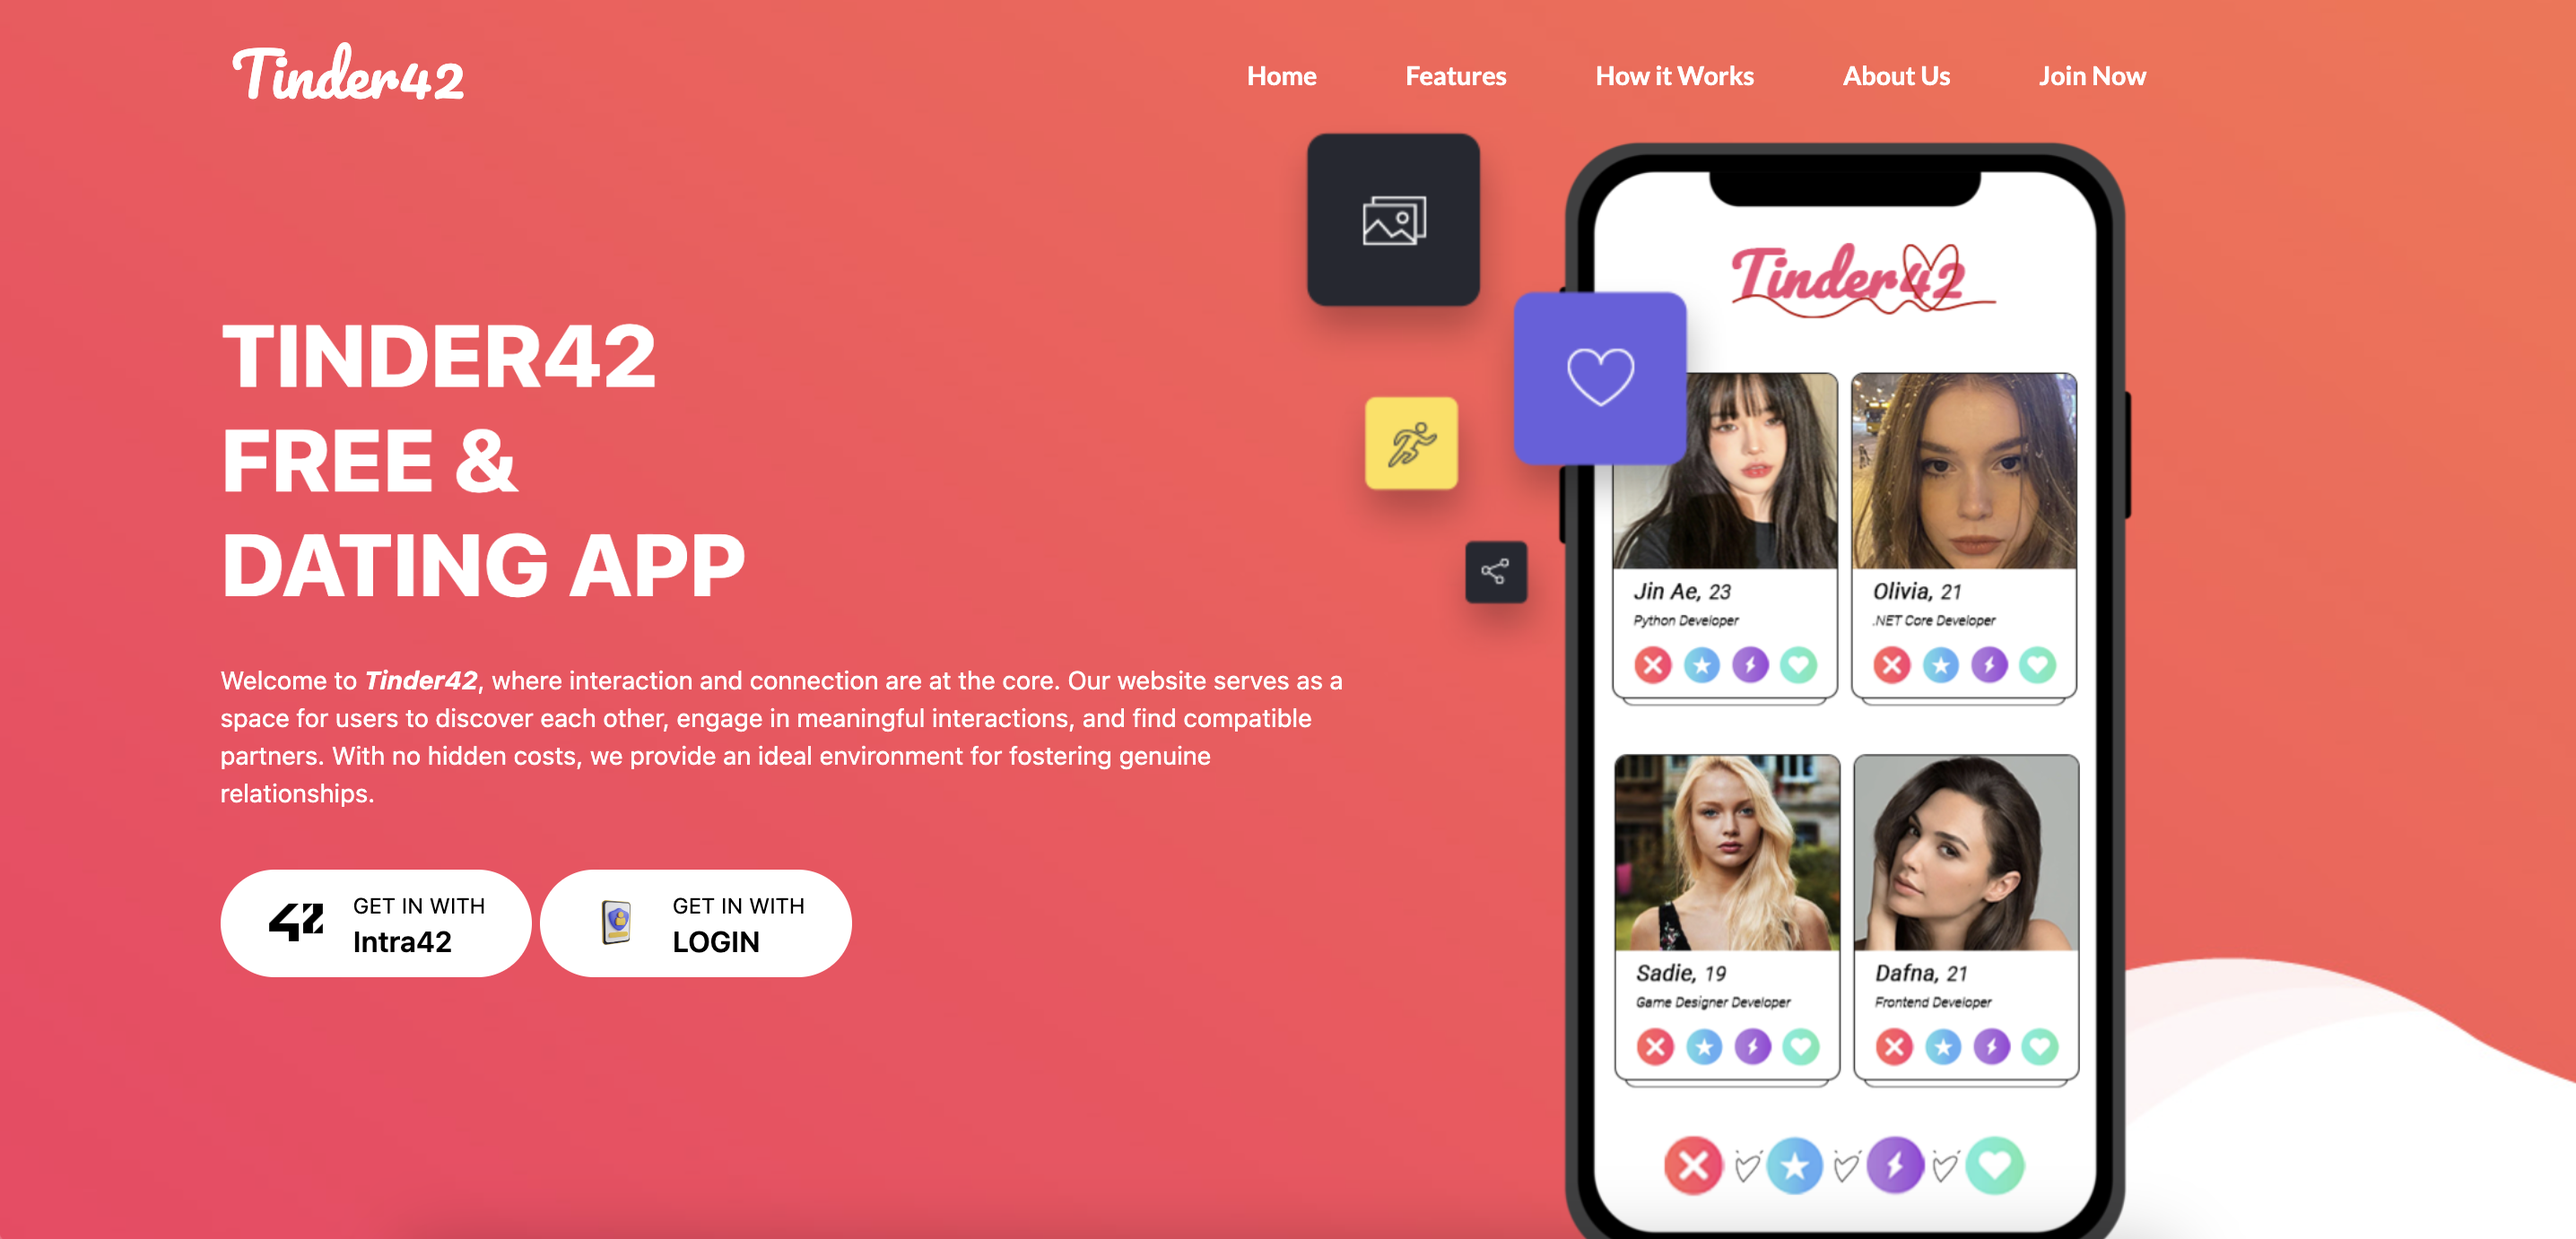
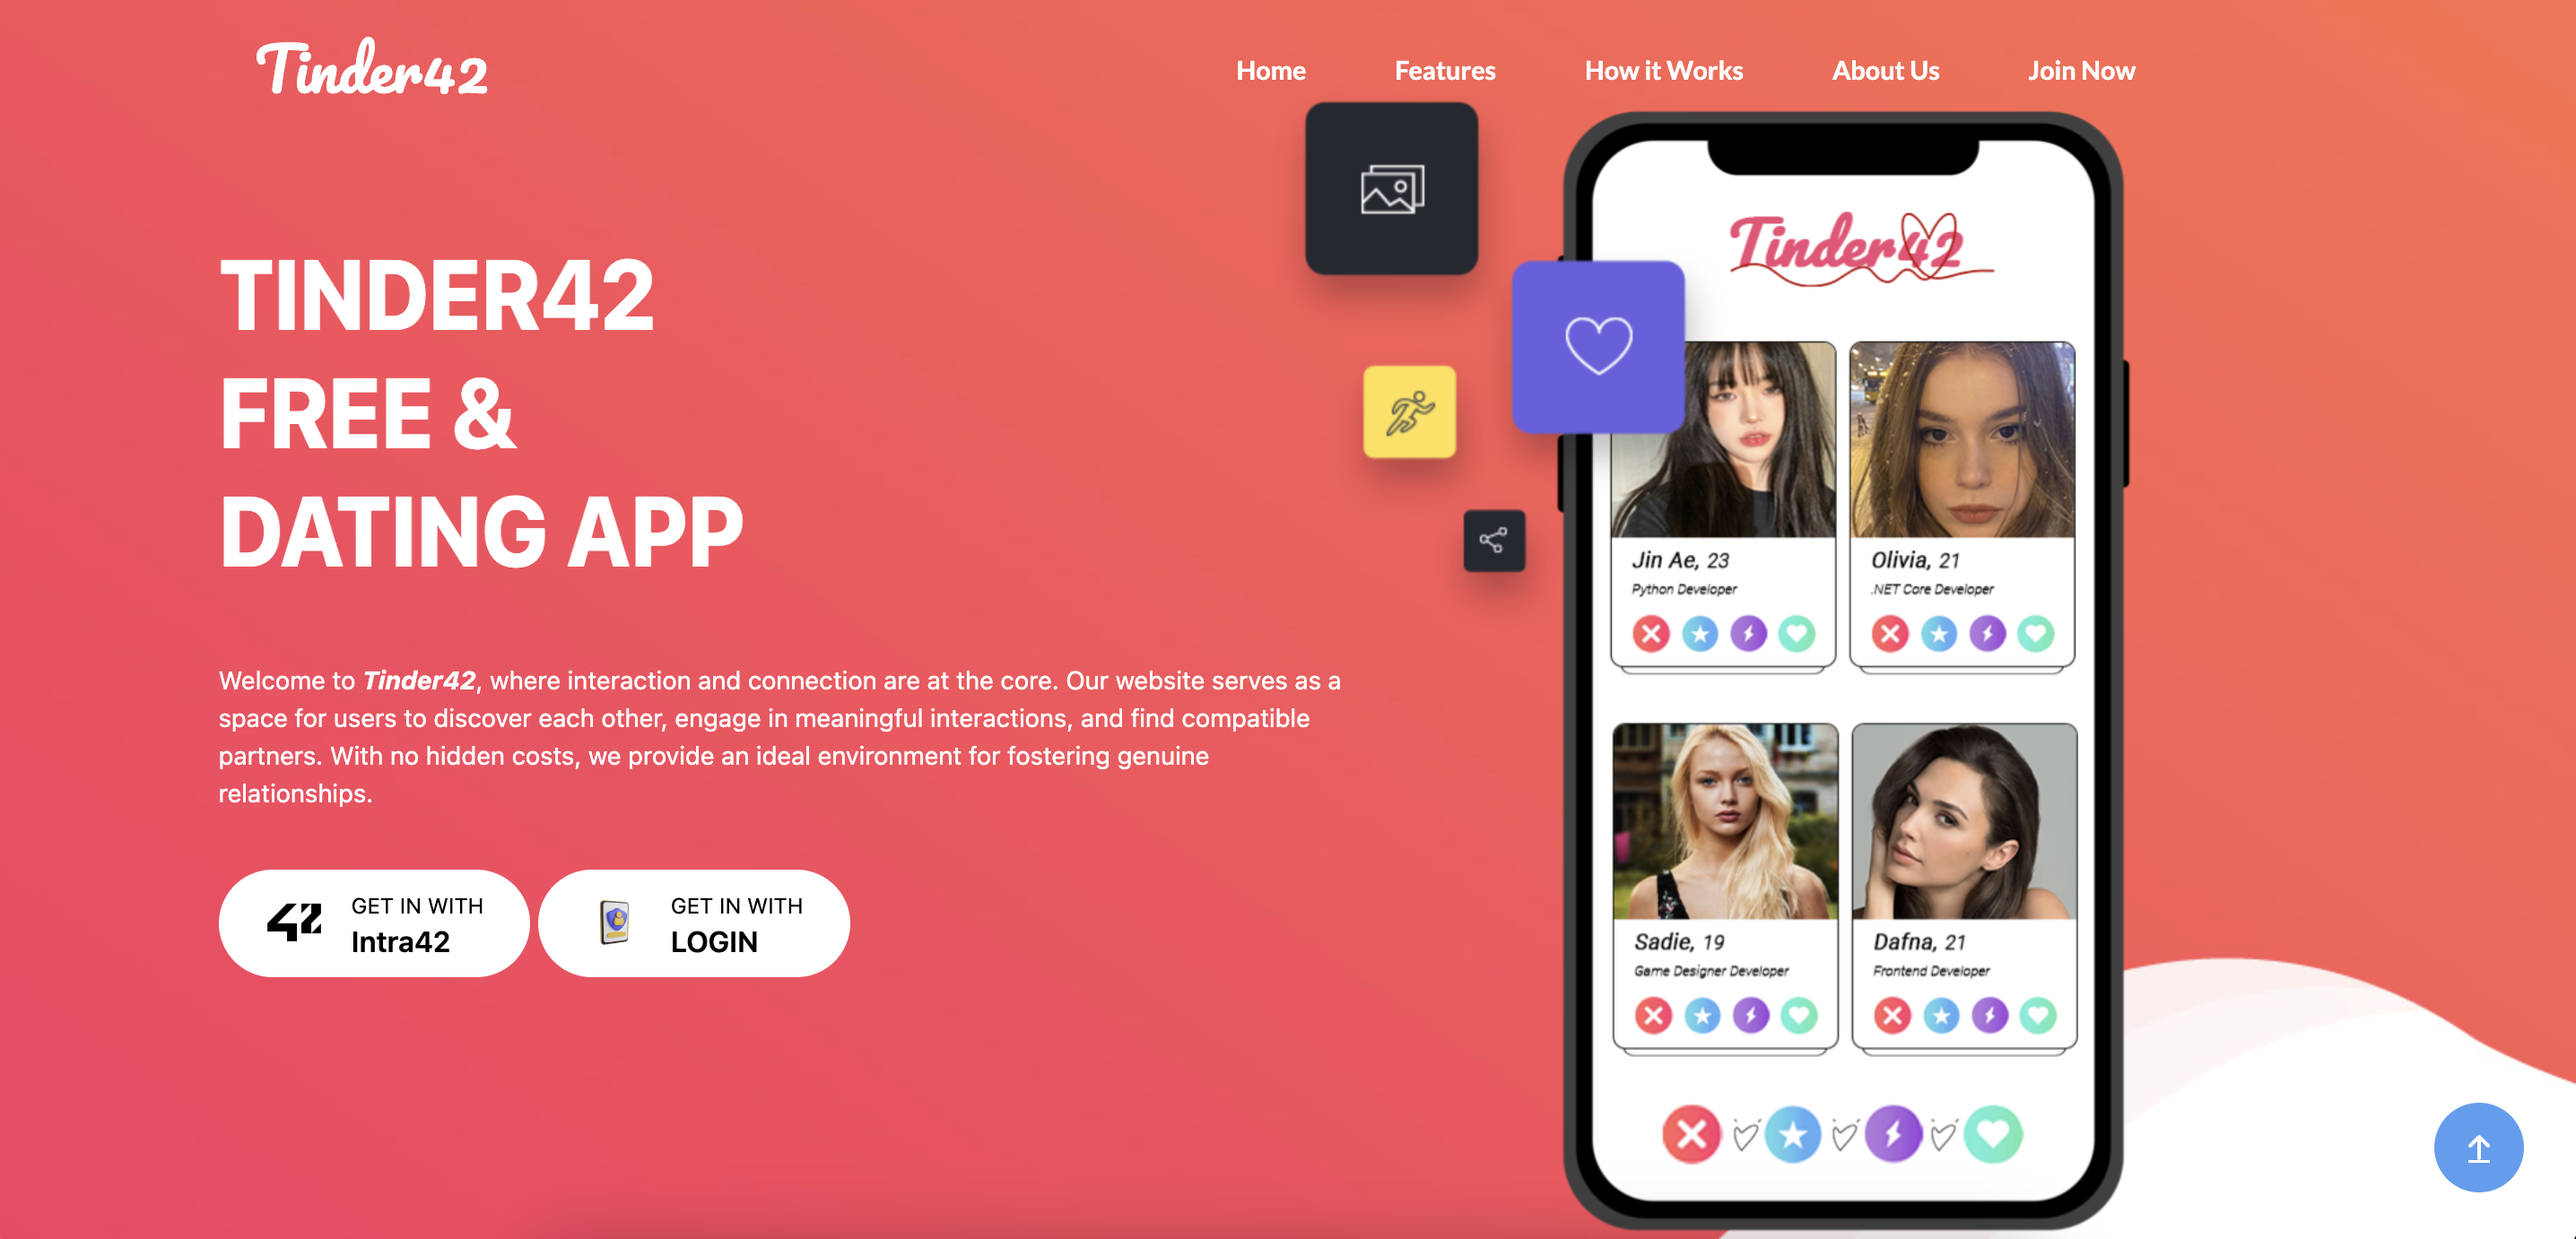
style: Update colors in CSS files for better visual consistency

diff --git a/tinder42/tinder/templates/index.html b/tinder42/tinder/templates/index.html
@@ -3,27 +3,27 @@
 <head>
     <meta charset="UTF-8">
     <meta name="viewport" content="width=device-width, initial-scale=1.0">
+    <link rel="stylesheet" href="https://cdn.jsdelivr.net/npm/bootstrap@5.3.2/dist/css/bootstrap.min.css">
+    <script src="https://kit.fontawesome.com/b80699d249.js" crossorigin="anonymous"></script>
+    <script src="https://cdn.jsdelivr.net/npm/bootstrap@5.3.2/dist/js/bootstrap.min.js"></script>
+    <link rel="stylesheet" href="https://cdnjs.cloudflare.com/ajax/libs/animate.css/4.1.1/animate.min.css"/>
     <link rel="stylesheet" href="../../static/css/keyframe.css">
     <link rel="stylesheet" href="../../static/css/style.css">
     <link rel="stylesheet" href="../../static/css/feature-section.css">
     <link rel="stylesheet" href="../../static/css/howitworks-section.css">
     <link rel="stylesheet" href="../../static/css/aboutus-section.css">
     <link rel="stylesheet" href="../../static/css/footer-section.css">
-    <link rel="stylesheet" href="https://cdn.jsdelivr.net/npm/bootstrap@5.3.2/dist/css/bootstrap.min.css">
-    <script src="https://kit.fontawesome.com/b80699d249.js" crossorigin="anonymous"></script>
-    <script src="https://cdn.jsdelivr.net/npm/bootstrap@5.3.2/dist/js/bootstrap.min.js"></script>
-    <link rel="stylesheet" href="https://cdnjs.cloudflare.com/ajax/libs/animate.css/4.1.1/animate.min.css"/>
     <link rel="icon" type="image/x-icon" href="../../static/assets/favicon-32x32.png">
     <title>Tinder42</title>
 </head>
 <body>
     <div class="backgroundimage" id="home-section">
         <nav class="navbar">
-            <div class="logo-container"><a class="navbar-item" href="/">
+            <div class="logo-container">
                 <div class="logo">
-                  <img class="logo-img" src="../../static/assets/42-tinder-logo.png" height="64px" alt="Intra 42">
+                    <a class="navbar-item" href="#home-section">
                     Tinder42
-                  </div></a>
+                  </a></div>
             </div>
             <ul class="nav-links" style="margin-top: 1em !important;">
                 <li><a class="navbar-item" href="#home-section">Home</a></li>
@@ -137,7 +137,7 @@
                                         <span class="icon"><img src="../../static/assets/backgrounds-layers/feature-icon-1.png" alt=""></span>
                                     </div>
                                     <h3>Easy to Use!</h3>
-                                    <div class="featured-text">Over thousands of people have signed up for CatchUp.</div>
+                                    <div class="featured-text">Over thousands of people have signed up for Tinder42.</div>
                                 </div>
                             </div>
 

diff --git a/tinder42/static/css/style.css b/tinder42/static/css/style.css
@@ -1,13 +1,12 @@
 
-
 /* The font i use in this css is only available for personal use. */
 /* link to this font https://www.fontspace.com/pixeboy-font-f43730 */
 
 @import url('https://fonts.googleapis.com/css2?family=Black+Ops+One&family=Honk&family=Jacquarda+Bastarda+9&family=Pacifico&family=Roboto:ital,wght@0,100;0,300;0,400;0,500;0,700;0,900;1,100;1,300;1,400;1,500;1,700;1,900&family=Silkscreen:wght@400;700&family=VT323&display=swap');
 
-@import url('https://fonts.googleapis.com/css2?family=Black+Ops+One&family=Honk&family=Jacquarda+Bastarda+9&family=Lato:ital,wght@0,100;0,300;0,400;0,700;0,900;1,100;1,300;1,400;1,700;1,900&family=Pacifico&family=Roboto:ital,wght@0,100;0,300;0,400;0,500;0,700;0,900;1,100;1,300;1,400;1,500;1,700;1,900&family=Silkscreen:wght@400;700&family=VT323&display=swap');
-
 @import url('https://fonts.googleapis.com/css2?family=Allura&family=Black+Ops+One&family=Honk&family=Jacquarda+Bastarda+9&family=Lato:ital,wght@0,100;0,300;0,400;0,700;0,900;1,100;1,300;1,400;1,700;1,900&family=Pacifico&family=Roboto:ital,wght@0,100;0,300;0,400;0,500;0,700;0,900;1,100;1,300;1,400;1,500;1,700;1,900&family=Silkscreen:wght@400;700&family=VT323&display=swap');
+
+@import url('https://fonts.googleapis.com/css2?family=Black+Ops+One&family=Honk&family=Jacquarda+Bastarda+9&family=Lato:ital,wght@0,100;0,300;0,400;0,700;0,900;1,100;1,300;1,400;1,700;1,900&family=Pacifico&family=Roboto:ital,wght@0,100;0,300;0,400;0,500;0,700;0,900;1,100;1,300;1,400;1,500;1,700;1,900&family=Silkscreen:wght@400;700&family=VT323&display=swap');
 
 body {
   margin: 0;
@@ -67,7 +66,7 @@ body {
 }
 
 .navbar-item:hover {
-    color: #ff0015;
+    color: hsl(212, 86%, 64%);;
     transition: 0.5s;
 }
 
@@ -84,15 +83,16 @@ body {
   text-decoration: none;
 }
 
-.logo-container a .logo {
-  color: white; /* Ya da istediğiniz rengi belirtin */
+.logo-container .navbar-item:hover {
+  animation: heartBeat 0.5s infinite; /* Play the animation infinitely */
+  color: hsl(212, 86%, 64%);
+  display: inline-block;
+  margin-left: 5px; /* Adjust spacing */
+  transition: 0.5s;
 }
 
-.logo img {
-  width: 40px;
-  height: 40px;
-  margin-top: -2px;
-  display: none;
+.logo-container a .logo {
+  color: white; /* Ya da istediğiniz rengi belirtin */
 }
 
 .logo {
@@ -197,7 +197,7 @@ body {
   text-decoration: none;
 }
 
-.playstore-button:hover, .img42logo {
+.playstore-button:hover, .im42logo {
   background-color: transparent;
   color: white !important;
   

diff --git a/tinder42/static/css/footer-section.css b/tinder42/static/css/footer-section.css
@@ -88,10 +88,11 @@
     align-items: center;
     transition: all 0.3s;
     text-decoration: none;
+    color: rgb(0, 0, 0);
 }
 
 .social-links .social-item:hover {
-    background: var(--red);
+    background: var(--blue);
 }
 
 .social-links .social-desc {
@@ -122,7 +123,7 @@
 }
 
 .social-links .footer-text a:hover {
-    color: var(--red);
+    color: var(--blue);
 }
 
 .footer-section .scroll-to-top {
@@ -130,7 +131,7 @@
     right: 30px;
     bottom: 30px;
     z-index: 1000;
-    background: var(--red);
+    background: var(--blue);
     color: #ffffff;
     width: 50px;
     height: 50px;

diff --git a/tinder42/static/js/script.js b/tinder42/static/js/script.js
@@ -27,13 +27,10 @@ document.querySelector('.navbar-item[href="#aboutus-section"]').addEventListener
 
 window.addEventListener('scroll', function() {
     var navbar = document.querySelector('.navbar');
-    var logo = document.querySelector('.logo-img'); // Changed to querySelector
     if (window.scrollY > 0) {
         navbar.classList.add('scrolled');
-        logo.style.display = 'flex';
     } else {
         navbar.classList.remove('scrolled');
-        logo.style.display = 'none';
     }
 });
 });

diff --git a/tinder42/static/css/howitworks-section.css b/tinder42/static/css/howitworks-section.css
@@ -4,7 +4,7 @@
     --orange: hsl(34, 97%, 64%);
     --blue: hsl(212, 86%, 64%);
     --varyDarkBlue: hsl(234, 12%, 34%);
-    --grayishBlue: hsl(229, 6%, 66%);
+    --grayishBlue: hsl(240, 7%, 11%);
     --veryLightGray: hsl(0, 0%, 98%);
     --weight1: 200;
     --weight2: 400;
